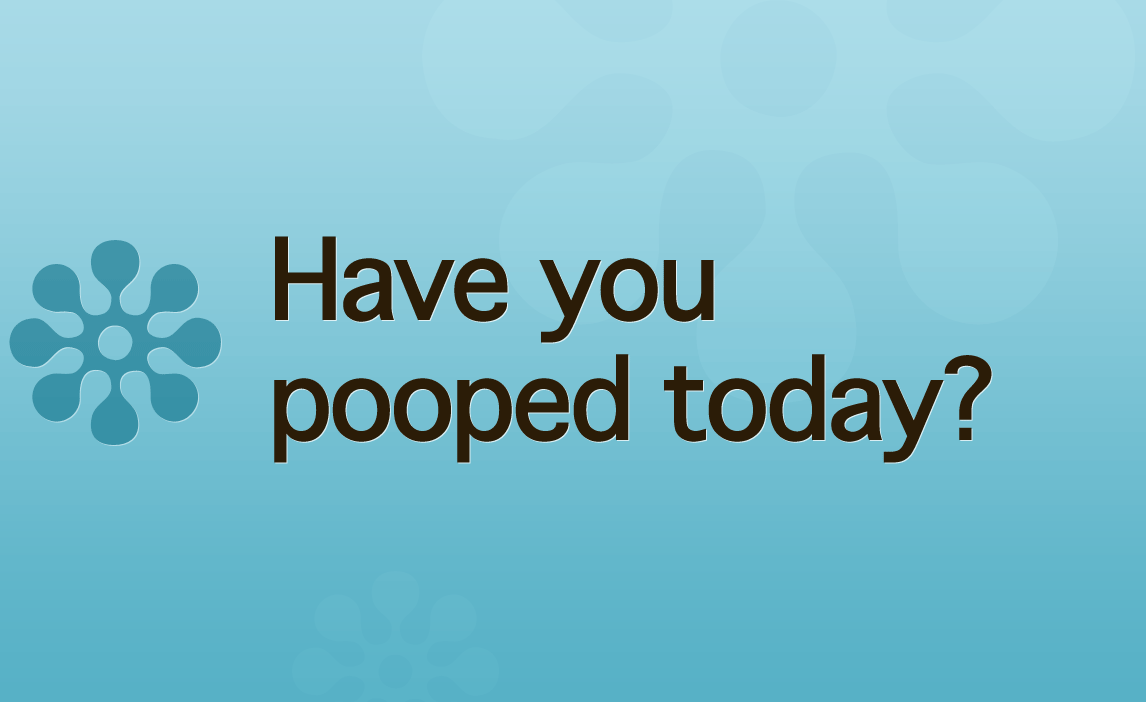
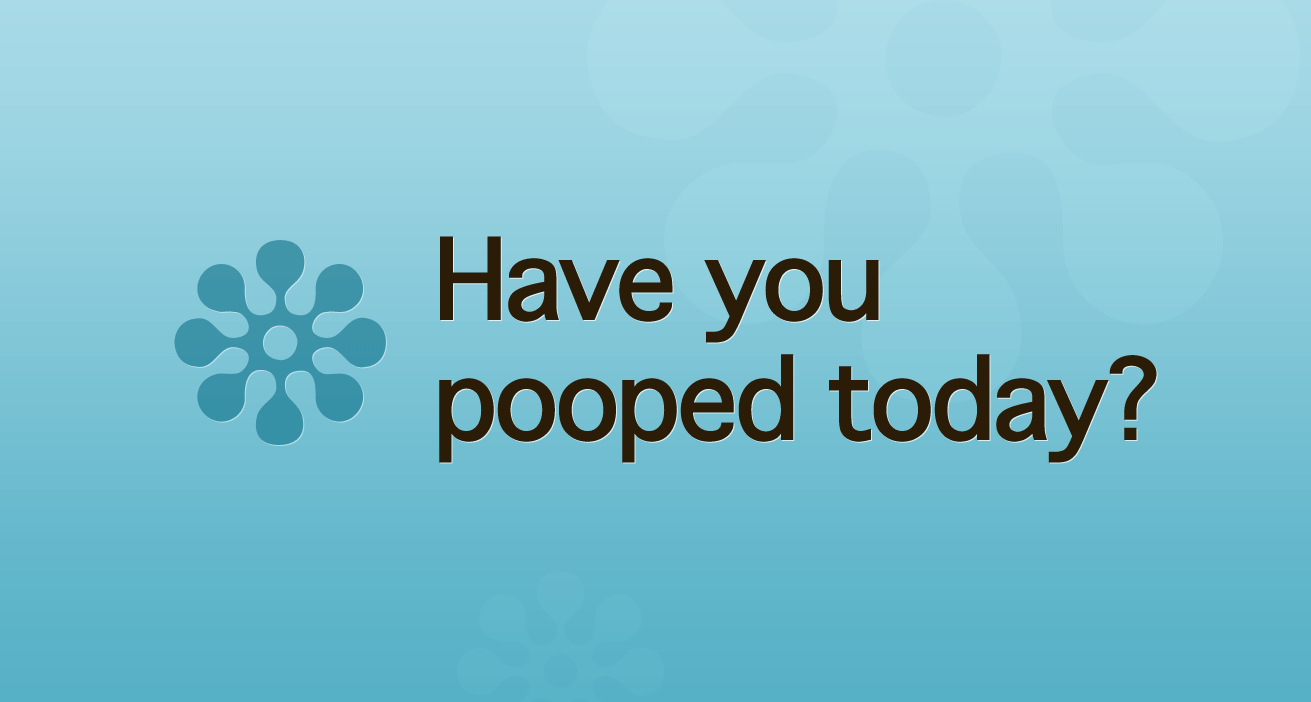
add test for home page, add teaser homepage

Changed region(s): [[0.0, 0.3291, 0.8857, 0.6581]]

diff --git a/public/stylesheets/main.css b/public/stylesheets/main.css
@@ -1,32 +1,72 @@
-/* -------- mini reset */
-html, body, div, form, fieldset, th, td, ol, ul, li{margin: 0; padding: 0;}
-fieldset, img {border: 0;}
-
-table {/* tables still need 'cellspacing="0"' in the markup */
-  border-collapse: separate;border-spacing: 0;}
-
-
-/* --------  some general classes */
+.hidden_text {
+  overflow: hidden;
+  text-indent: -10000px;
+}
+html, body, div, form, fieldset, th, td, ol, ul, li {
+  margin: 0;
+  padding: 0;
+}
+fieldset, img { border: 0; }
+table {
+  border-collapse: separate;
+  border-spacing: 0;
+}
 body {
-  font-family:Helvetica, Arial, sans-serif;
+  font-family: Helvetica, Arial, sans-serif;
   font-size: 76%;
-  color:#242424;
-  }
-  
-p{font-size:1em;line-height:1.8em;margin:1em 0;}
-
-ol, ul, li {list-style: none; font-size: 1.0em; line-height: 1.8em;}
-  
-h1{font-weight:normal;}
-
-img {display:block;}
-
-.bulleted li{list-style-type:disc;}
-.numbered li{list-style-type:decimal}
-
-.float_left{float:left;}
-.float_right{float:right;}
-
-.clear{clear:both;}
-.clearfix{*zoom:1}/* for ie */
-.clearfix:after{content: "."; display: block; height: 0; clear: both; visibility: hidden;}
+  color: #242424;
+  background: #2c1d07;
+}
+p {
+  font-size: 1em;
+  line-height: 1.8em;
+  margin: 1em 0;
+}
+ol, ul, li {
+  list-style: none;
+  font-size: 1em;
+  line-height: 1.8em;
+}
+h1 { font-weight: normal; }
+img { display: block; }
+.bulleted li { list-style-type: disc; }
+.numbered li { list-style-type: decimal; }
+.float_left { float: left; }
+.float_right { float: right; }
+.clear { clear: both; }
+.clearfix { *zoom: 1; }
+.clearfix:after {
+  content: ".";
+  display: block;
+  height: 0;
+  clear: both;
+  visibility: hidden;
+}
+#header_wrapper {
+  height: 54px;
+  background: url("/images/bg_header.gif") repeat-x;
+}
+#header {
+  width: 981px;
+  margin: 0 auto;
+}
+a#logo {
+  background: url("/images/logo_pooptrack.png") no-repeat;
+  display: block;
+  width: 114px;
+  height: 54px;
+}
+#teaser_wrapper {
+  border: 1px solid #ffffff;
+  border-width: 1px 0;
+  margin-top: 1px;
+  background: url("/images/bg_teaser.png") repeat-x;
+  height: 702px;
+}
+#teaser {
+  background: url("/images/pooptrack_teaser.png") no-repeat center center;
+  height: 702px;
+  text-indent: -10000px;
+  overflow: hidden;
+  text-indent: -10000px;
+}

diff --git a/public/stylesheets/main.less b/public/stylesheets/main.less
@@ -1,0 +1,50 @@
+@brown: #2c1d07;
+@blue: #a8dae7;
+@page_width: 981px;
+
+.hidden_text{ overflow:hidden; text-indent: -10000px}
+
+/* -------- mini reset */
+html, body, div, form, fieldset, th, td, ol, ul, li{margin: 0; padding: 0;}
+fieldset, img {border: 0;}
+
+table {/* tables still need 'cellspacing="0"' in the markup */
+  border-collapse: separate;border-spacing: 0;}
+
+
+/* --------  some general classes */
+body {
+  font-family:Helvetica, Arial, sans-serif;
+  font-size: 76%;
+  color:#242424;
+  background: @brown;
+  }
+  
+p{font-size:1em;line-height:1.8em;margin:1em 0;}
+
+ol, ul, li {list-style: none; font-size: 1.0em; line-height: 1.8em;}
+  
+h1{font-weight:normal;}
+
+img {display:block;}
+
+.bulleted li{list-style-type:disc;}
+.numbered li{list-style-type:decimal}
+
+.float_left{float:left;}
+.float_right{float:right;}
+
+.clear{clear:both;}
+.clearfix{*zoom:1}/* for ie */
+.clearfix:after{content: "."; display: block; height: 0; clear: both; visibility: hidden;}
+
+
+/* header */
+#header_wrapper{height:54px; background:url("/images/bg_header.gif") repeat-x; }
+#header{width:@page_width; margin: 0 auto; }
+a#logo{background:url("/images/logo_pooptrack.png") no-repeat; display:block; width:114px; height:54px;}
+
+/* teaser */
+#teaser_wrapper{border:1px solid #fff; border-width:1px 0; margin-top: 1px; background:url("/images/bg_teaser.png") repeat-x; height:702px; }
+#teaser{background:url("/images/pooptrack_teaser.png") no-repeat center center; height:702px; text-indent:-10000px; .hidden_text; }
+

diff --git a/config/routes.rb b/config/routes.rb
@@ -1,4 +1,6 @@
 Pooptrack::Application.routes.draw do
+  #get "pages/home"
+
   # The priority is based upon order of creation:
   # first created -> highest priority.
 
@@ -48,7 +50,7 @@ Pooptrack::Application.routes.draw do
 
   # You can have the root of your site routed with "root"
   # just remember to delete public/index.html.
-  # root :to => "welcome#index"
+  root :to => "pages#home"
 
   # See how all your routes lay out with "rake routes"
 

diff --git a/spec/controllers/pages_controller.rb b/spec/controllers/pages_controller.rb
@@ -1,0 +1,13 @@
+require 'spec_helper'
+
+describe PagesController do
+  render_views
+  
+  describe "GET 'home'" do
+    it "should be successful" do
+      get 'home'
+      response.should be_success
+    end
+  end
+
+end

diff --git a/app/controllers/pages_controller.rb b/app/controllers/pages_controller.rb
@@ -1,0 +1,5 @@
+class PagesController < ApplicationController
+  def home
+  end
+
+end

diff --git a/app/helpers/pages_helper.rb b/app/helpers/pages_helper.rb
@@ -1,0 +1,2 @@
+module PagesHelper
+end
